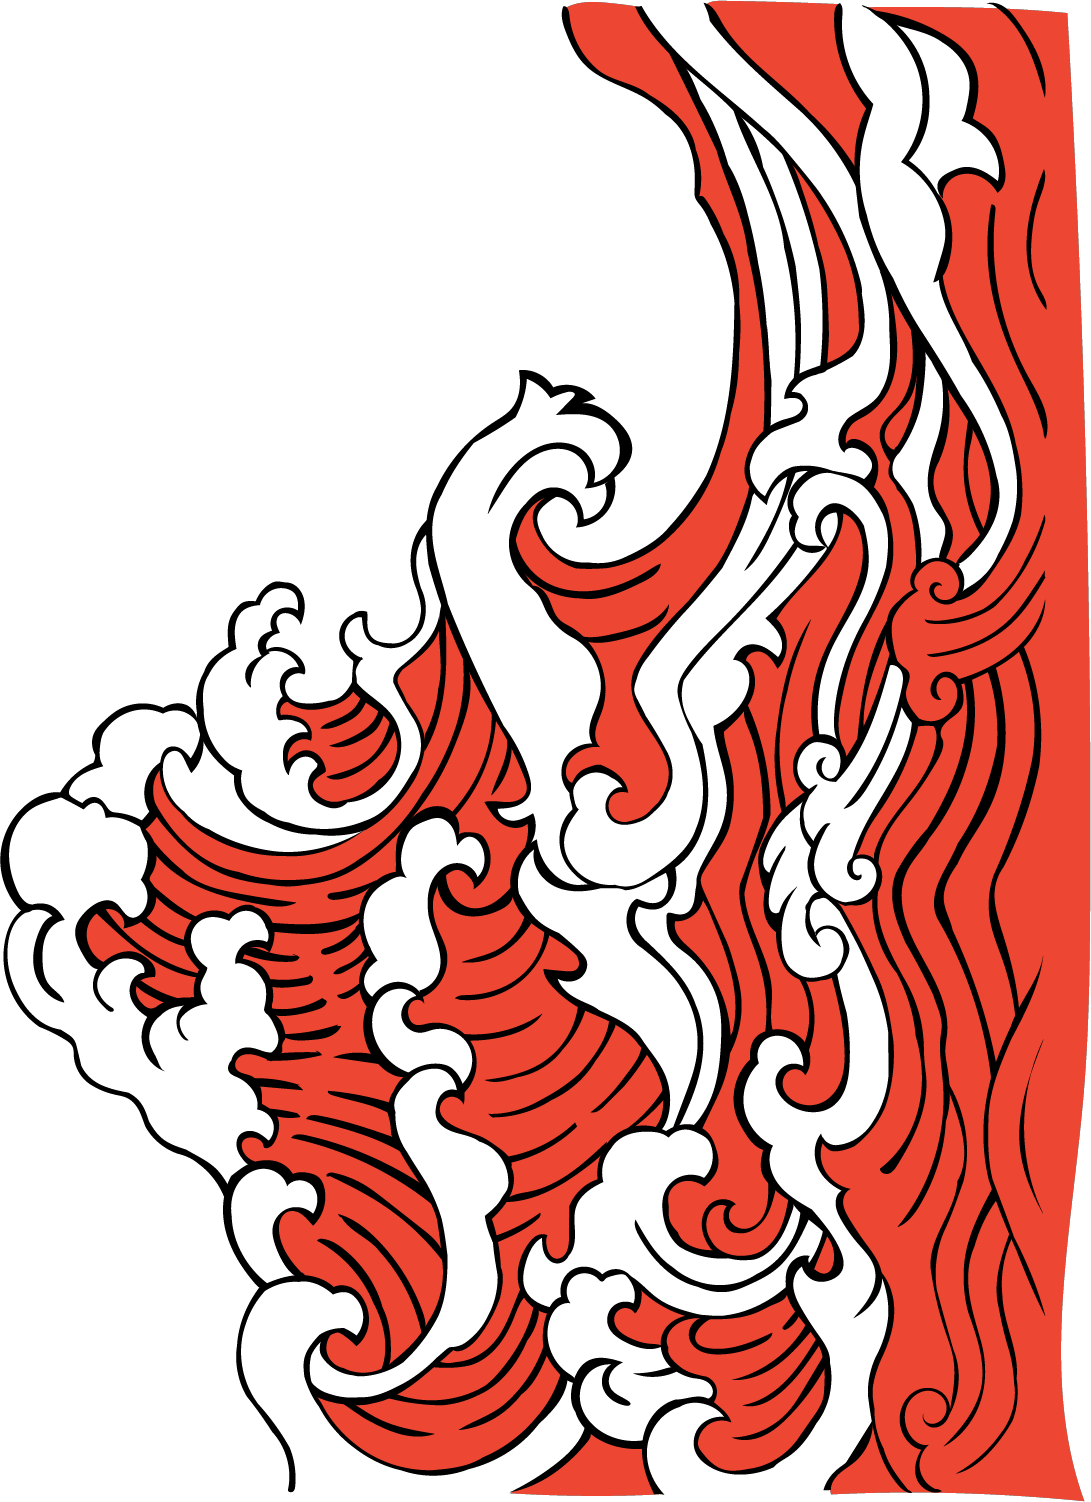
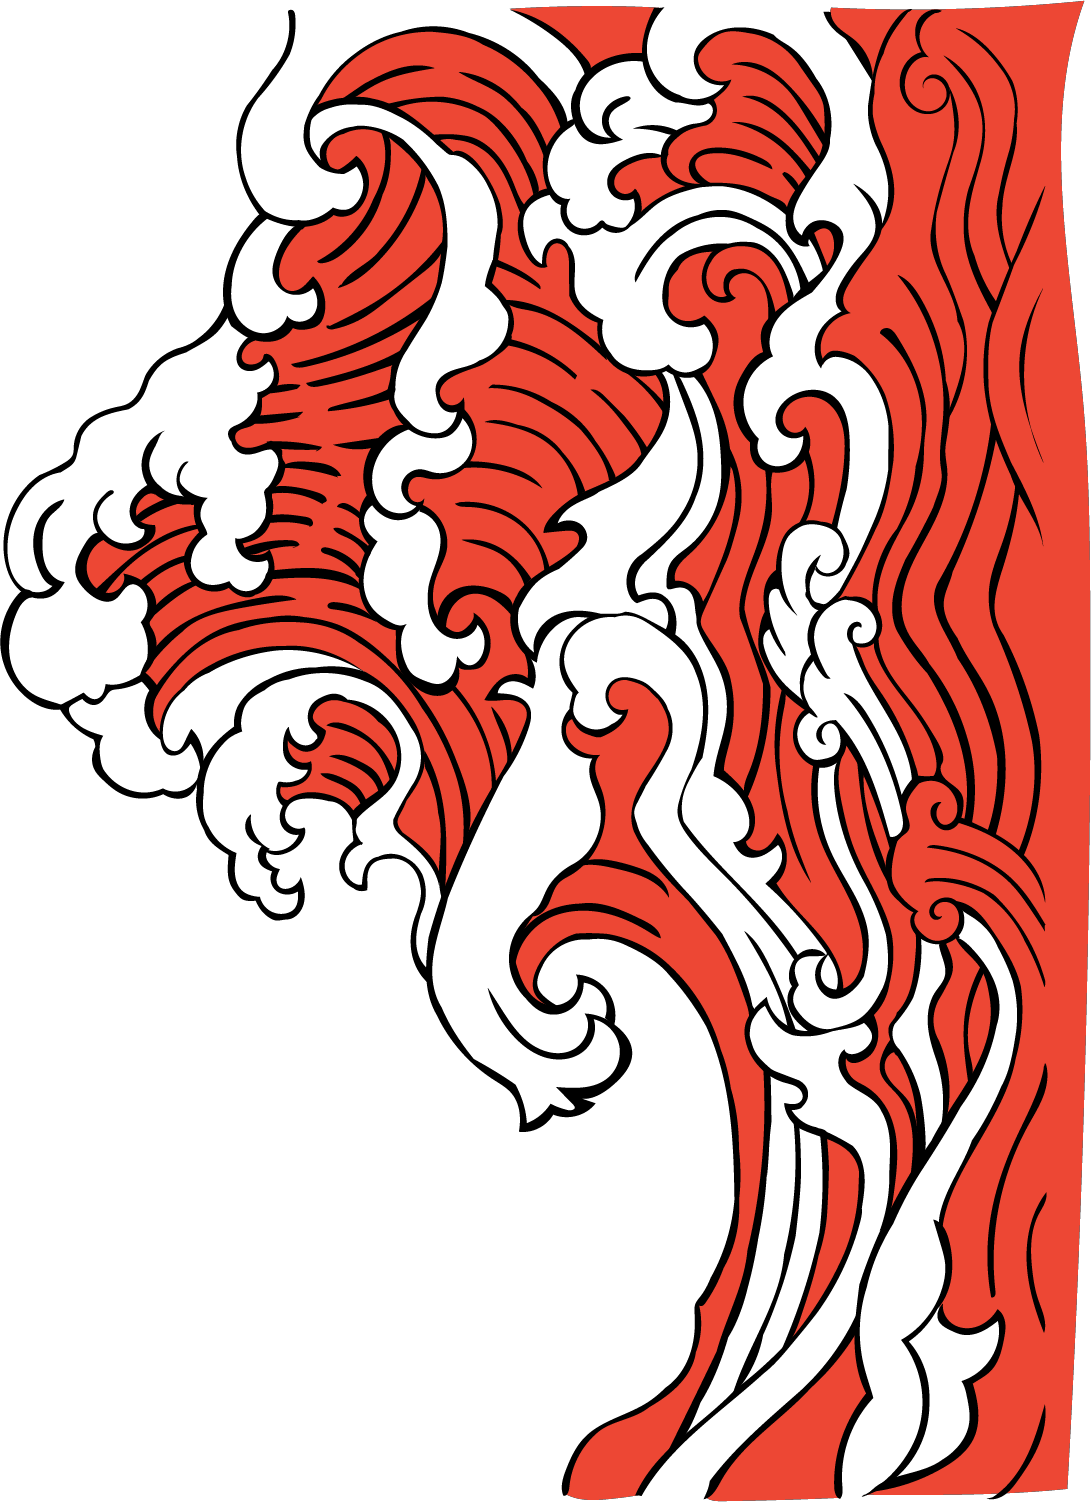
wave update

diff --git a/stylesheet.css b/stylesheet.css
@@ -189,7 +189,7 @@ body {
     text-align: center;
     text-shadow: 0px 10px 10px rgba(0, 0, 0, 0.25);
     font-family: Kavivanar;
-    font-size: 2em;
+    font-size: 2.2em;
     font-style: normal;
     font-weight: 400;
     line-height: normal;
@@ -202,7 +202,7 @@ body {
     position: fixed;
     width: 40rem; /* Adjust the width of the image */
     height: 20rem; /* Adjust the height of the image */
-    background-image: url('images/wave-bottom-left.png'); /* Replace with your image path */
+    background-image: url('images/wave-bottom.png'); /* Replace with your image path */
     background-size: cover;
     z-index: -10; /* Set z-index to move the image behind other content */
     bottom: 0;
@@ -212,11 +212,11 @@ body {
     position: fixed;
     width: 10rem; /* Adjust the width of the image */
     height: 20rem; /* Adjust the height of the image */
-    background-image: url('images/wave-right\ side.png'); /* Replace with your image path */
+    background-image: url('images/wave-top-right.png'); /* Replace with your image path */
     background-size: cover;
     z-index: -10; /* Set z-index to move the image behind other content */
     top: 0;
     right: 0;   
-    transform: rotate(-2deg);
+    /* transform: rotate(0deg); */
   }
 

diff --git a/Måltidskasser.html b/Måltidskasser.html
@@ -1,6 +1,5 @@
 <!DOCTYPE html>
 <html lang="en">
-
 <head>
     <meta charset="UTF-8">
     <meta name="viewport" content="width=device-width, initial-scale=1.0">
@@ -8,11 +7,12 @@
     <script src="app.js"></script>
     <link rel="icon" type="image/x-icon" href="/images/Logo transparent.png">
 
-    <title>Velkommen til Nippon</title>
-</head>
 
+
+    <title>Måltidskasser</title>
+</head>
 <body>
-    <!-- corner wave image -->
+       <!-- corner wave image -->
 <div class="corner-image bottom-left"></div>
 <div class="corner-image top-right"></div>
 
@@ -48,26 +48,8 @@
     </nav>
 
 
-    <!-- front page content 1 -->
     <section>
-        <!-- front page picture -->
-        <div class="container-frontpage">
-            <div class="image">
-                <img src="images/frontpage cropped.png" alt="Your Image">
-            </div >
-        <!-- front page button -->
-        <a href="Måltidskasser.html" class="text-button">Se Vores Måltidskasser</a>
-    </div>
 
     </section>
-<section>
-
-    
-</section>
-
-
-
-
 </body>
-
 </html>
